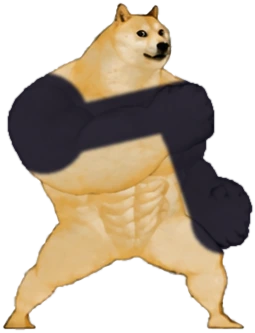
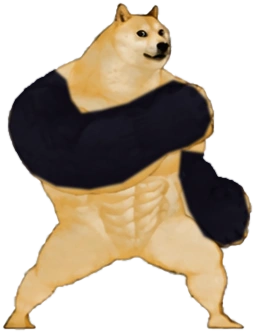
Ver 305: Memes Assemble II: Buff Doge's haki arms in the power-up stance are redrawn — the black armament now follows the real outline of his crossed arms and hanging fist (traced by hand, crisp edges) with a glossy black finish that keeps the muscle shading, instead of the soft black blobs

diff --git a/index.html b/index.html
@@ -36,7 +36,7 @@
 .mm-version{position:absolute;left:14px;bottom:12px;z-index:5;font:8px 'Press Start 2P',monospace;color:rgba(70,50,30,.6);pointer-events:none;letter-spacing:1px}
 #bootTip{font-size:9px;opacity:.75;min-height:12px;text-align:center;padding:0 16px}
 </style>
-<link rel="stylesheet" href="css/game.css?v=304">
+<link rel="stylesheet" href="css/game.css?v=305">
 
 </head>
 <body>
@@ -639,9 +639,9 @@
   </div>
 </div>
 
-<script>window.GAME_VERSION={build:304,at:"10:23 · 22/10/2026"};   // tools/release.py tự tăng số bản + ghi giờ mỗi lần đẩy lên</script>
-<script src="js/asset-groups.js?v=304"></script>
-<script src="js/boot.js?v=304"></script>
+<script>window.GAME_VERSION={build:305,at:"10:46 · 22/10/2026"};   // tools/release.py tự tăng số bản + ghi giờ mỗi lần đẩy lên</script>
+<script src="js/asset-groups.js?v=305"></script>
+<script src="js/boot.js?v=305"></script>
 <button id="mbMenuBtn" onclick="mbToggleMenu()" title="Menu">☰</button>
 </body>
 </html>
